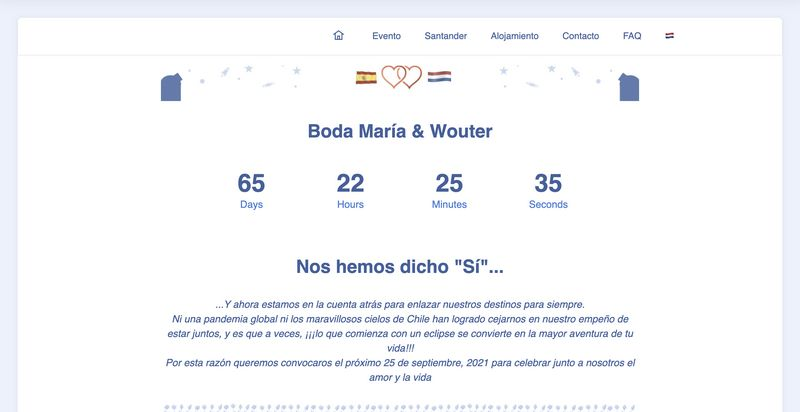
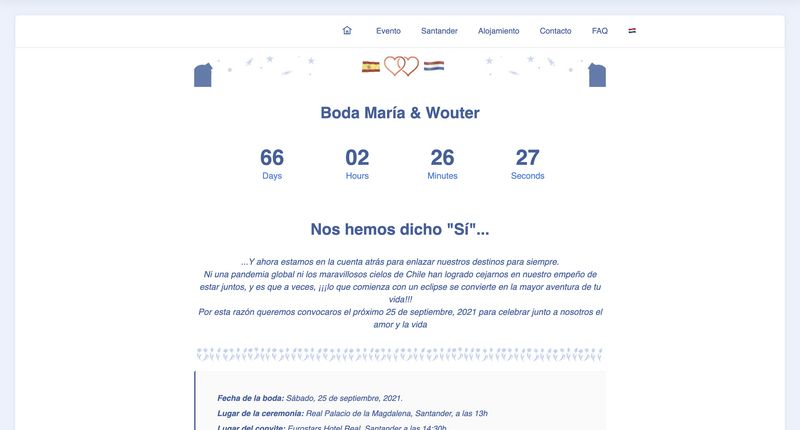
Translates Dutch invitation text and added Dutch WedShoots info.

diff --git a/faq.html b/faq.html
@@ -58,7 +58,7 @@
     </nav>
 </section>
 
-<section class="engine"><a href="https://mobirise.info/h">how to create your own web page</a></section><section class="image3 cid-sAUeQByKgb" id="image3-z">
+<section class="engine"><a href="https://mobirise.info/r">bootstrap template</a></section><section class="image3 cid-sAUeQByKgb" id="image3-z">
     
 
     
@@ -129,16 +129,16 @@
                     
                     
                 </div>
-                <div id="bootstrap-accordion_58" class="panel-group accordionStyles accordion mt-4" role="tablist" aria-multiselectable="true">
+                <div id="bootstrap-accordion_101" class="panel-group accordionStyles accordion mt-4" role="tablist" aria-multiselectable="true">
                     <div class="card mb-3">
                         <div class="card-header" role="tab" id="headingOne">
-                            <a role="button" class="panel-title collapsed" data-toggle="collapse" data-core="" href="#collapse1_58" aria-expanded="false" aria-controls="collapse1">
+                            <a role="button" class="panel-title collapsed" data-toggle="collapse" data-core="" href="#collapse1_101" aria-expanded="false" aria-controls="collapse1">
                                 <h6 class="panel-title-edit mbr-fonts-style mb-0 display-7"><strong>Tengo que seguir una dieta especial, habrá menús adaptados a mi dieta?</strong>
                                 </h6>
                                 <span class="sign mbr-iconfont mbri-arrow-down inactive"></span>
                             </a>
                         </div>
-                        <div id="collapse1_58" class="panel-collapse noScroll collapse" role="tabpanel" aria-labelledby="headingOne" data-parent="#bootstrap-accordion_58">
+                        <div id="collapse1_101" class="panel-collapse noScroll collapse" role="tabpanel" aria-labelledby="headingOne" data-parent="#bootstrap-accordion_101">
                             <div class="panel-body">
                                 <p class="mbr-fonts-style panel-text display-4"><em>Sí. Tan sólo necesitamos que te pongas en contacto con nosotros lo antes posibles y nos indiques que restricciones alimenticias tienes. Nosotros nos encargaremos del resto.</em></p>
                             </div>
@@ -146,13 +146,13 @@
                     </div>
                     <div class="card mb-3">
                         <div class="card-header" role="tab" id="headingOne">
-                            <a role="button" class="panel-title collapsed" data-toggle="collapse" data-core="" href="#collapse2_58" aria-expanded="false" aria-controls="collapse2">
+                            <a role="button" class="panel-title collapsed" data-toggle="collapse" data-core="" href="#collapse2_101" aria-expanded="false" aria-controls="collapse2">
                                 <h6 class="panel-title-edit mbr-fonts-style mb-0 display-7"><strong>Habrá menús adecuados para los más pequeños?
                                     </strong></h6>
                                 <span class="sign mbr-iconfont mbri-arrow-down inactive"></span>
                             </a>
                         </div>
-                        <div id="collapse2_58" class="panel-collapse noScroll collapse" role="tabpanel" aria-labelledby="headingOne" data-parent="#bootstrap-accordion_58">
+                        <div id="collapse2_101" class="panel-collapse noScroll collapse" role="tabpanel" aria-labelledby="headingOne" data-parent="#bootstrap-accordion_101">
                             <div class="panel-body">
                                 <p class="mbr-fonts-style panel-text display-4"><em>Sí. No obstante, si vuestro hij@ tiene algún tipo de restricción alimentaria os rogamos que contactéis con nosotros lo antes posible para que podamos indicárselo al restaurante con tiempo suficiente.</em><br></p>
                             </div>
@@ -160,12 +160,12 @@
                     </div>
                     <div class="card mb-3">
                         <div class="card-header" role="tab" id="headingOne">
-                            <a role="button" class="panel-title collapsed" data-toggle="collapse" data-core="" href="#collapse3_58" aria-expanded="false" aria-controls="collapse3">
+                            <a role="button" class="panel-title collapsed" data-toggle="collapse" data-core="" href="#collapse3_101" aria-expanded="false" aria-controls="collapse3">
                                 <h6 class="panel-title-edit mbr-fonts-style mb-0 display-7"><strong>Se puede acceder en coche al Palacio de la Magdalena?</strong></h6>
                                 <span class="sign mbr-iconfont mbri-arrow-down inactive"></span>
                             </a>
                         </div>
-                        <div id="collapse3_58" class="panel-collapse noScroll collapse" role="tabpanel" aria-labelledby="headingOne" data-parent="#bootstrap-accordion_58">
+                        <div id="collapse3_101" class="panel-collapse noScroll collapse" role="tabpanel" aria-labelledby="headingOne" data-parent="#bootstrap-accordion_101">
                             <div class="panel-body">
                                 <p class="mbr-fonts-style panel-text display-4"><em>Sí. Es posible acceder al Palacio de la Magdalena en coche. A la entrada del parque tan sólo tenéis que indicar que vais a asistir al enlace. No obstante tened encuenta que el espacio para parking es limitado y que se celebran bodas cada 30 minutos, por lo tanto, os recomendamos que compartáis coche siempre que sea posible y que las medidas sanitarias impuestas contra el Covid-19 lo permitan.</em></p>
                             </div>
@@ -173,12 +173,12 @@
                     </div>
                     <div class="card mb-3">
                         <div class="card-header" role="tab" id="headingOne">
-                            <a role="button" class="panel-title collapsed" data-toggle="collapse" data-core="" href="#collapse4_58" aria-expanded="false" aria-controls="collapse4">
+                            <a role="button" class="panel-title collapsed" data-toggle="collapse" data-core="" href="#collapse4_101" aria-expanded="false" aria-controls="collapse4">
                                 <h6 class="panel-title-edit mbr-fonts-style mb-0 display-7"><strong>Con cuánto tiempo de antelación se ha de llegar al Palacio de la Magdalena?</strong></h6>
                                 <span class="sign mbr-iconfont mbri-arrow-down inactive"></span>
                             </a>
                         </div>
-                        <div id="collapse4_58" class="panel-collapse noScroll collapse" role="tabpanel" aria-labelledby="headingOne" data-parent="#bootstrap-accordion_58">
+                        <div id="collapse4_101" class="panel-collapse noScroll collapse" role="tabpanel" aria-labelledby="headingOne" data-parent="#bootstrap-accordion_101">
                             <div class="panel-body">
                                 <p class="mbr-fonts-style panel-text display-4"><em>Las bodas civiles en el Palacio de la Magdalena tienen la característica de ser muy puntuales ya que se celebran cada 30 minutos.&nbsp;</em><br><em>Esto significa que para poder asistir al enlace, tenéis que llegar al Palacio de la Magdalena entre las 12:30h y las 12:45h aproximadamente. Protocolo os mandará pasar al salón a las 12:50h y cuando estéis todos acomodados mandarán pasar al novio, (sobre las 12:55h) y finalmente a las 13h darán aviso para que pase la novia. Por esta razón es muy importante que seáis puntuales ya que una vez que los invitados sean invitados a pasar al salón donde se celebrará en enlace, ya no se podrá acceder.<br></em><br></p>
                             </div>
@@ -186,13 +186,13 @@
                     </div>
                     <div class="card mb-3">
                         <div class="card-header" role="tab" id="headingOne">
-                            <a role="button" class="panel-title collapsed" data-toggle="collapse" data-core="" href="#collapse5_58" aria-expanded="false" aria-controls="collapse5">
+                            <a role="button" class="panel-title collapsed" data-toggle="collapse" data-core="" href="#collapse5_101" aria-expanded="false" aria-controls="collapse5">
                                 <h6 class="panel-title-edit mbr-fonts-style mb-0 display-7"><strong>Qué medidas sanitarias contra el Covid-19 se van a implementar durante el fin de semana?
                                     </strong></h6>
                                 <span class="sign mbr-iconfont mbri-arrow-down inactive"></span>
                             </a>
                         </div>
-                        <div id="collapse5_58" class="panel-collapse noScroll collapse" role="tabpanel" aria-labelledby="headingOne" data-parent="#bootstrap-accordion_58">
+                        <div id="collapse5_101" class="panel-collapse noScroll collapse" role="tabpanel" aria-labelledby="headingOne" data-parent="#bootstrap-accordion_101">
                             <div class="panel-body">
                                 <p class="mbr-fonts-style panel-text display-4"><em>Como sabéis, en estos momentos la evolución de la crisis actual con el Covid-19 es prácticamente impredecible. No obstantes estamos en continuo contacto con nuestros proveedores con el fin de garantizar que en todo momento se lleven a cabo todas las medidas sanitarias disponibles para garantizar que el evento sea seguro para todos. Os mantendremos informados de cualquier cambio que pueda surgir durante las proximas semanas.</em><br></p>
                             </div>
@@ -200,12 +200,12 @@
                     </div>
                     <div class="card mb-3">
                         <div class="card-header" role="tab" id="headingOne">
-                            <a role="button" class="panel-title collapsed" data-toggle="collapse" data-core="" href="#collapse6_58" aria-expanded="false" aria-controls="collapse6">
+                            <a role="button" class="panel-title collapsed" data-toggle="collapse" data-core="" href="#collapse6_101" aria-expanded="false" aria-controls="collapse6">
                                 <h6 class="panel-title-edit mbr-fonts-style mb-0 display-7"><strong>Regalos</strong></h6>
                                 <span class="sign mbr-iconfont mbri-arrow-down inactive"></span>
                             </a>
                         </div>
-                        <div id="collapse6_58" class="panel-collapse noScroll collapse" role="tabpanel" aria-labelledby="headingOne" data-parent="#bootstrap-accordion_58">
+                        <div id="collapse6_101" class="panel-collapse noScroll collapse" role="tabpanel" aria-labelledby="headingOne" data-parent="#bootstrap-accordion_101">
                             <div class="panel-body">
                                 <p class="mbr-fonts-style panel-text display-4">Proximamente os daremos mas información respecto a este punto.</p>
                             </div>
@@ -229,15 +229,15 @@
                     
                     
                 </div>
-                <div id="bootstrap-accordion_59" class="panel-group accordionStyles accordion mt-4" role="tablist" aria-multiselectable="true">
+                <div id="bootstrap-accordion_102" class="panel-group accordionStyles accordion mt-4" role="tablist" aria-multiselectable="true">
                     <div class="card mb-3">
                         <div class="card-header" role="tab" id="headingOne">
-                            <a role="button" class="panel-title collapsed" data-toggle="collapse" data-core="" href="#collapse1_59" aria-expanded="false" aria-controls="collapse1">
+                            <a role="button" class="panel-title collapsed" data-toggle="collapse" data-core="" href="#collapse1_102" aria-expanded="false" aria-controls="collapse1">
                                 <h6 class="panel-title-edit mbr-fonts-style mb-0 display-7"><strong>"Dress Code"</strong>&nbsp; &nbsp; &nbsp; &nbsp; &nbsp; &nbsp; &nbsp; &nbsp; &nbsp; &nbsp; &nbsp; &nbsp; &nbsp; &nbsp; &nbsp; &nbsp; &nbsp;</h6>
                                 <span class="sign mbr-iconfont mbri-arrow-down inactive"></span>
                             </a>
                         </div>
-                        <div id="collapse1_59" class="panel-collapse noScroll collapse" role="tabpanel" aria-labelledby="headingOne" data-parent="#bootstrap-accordion_59">
+                        <div id="collapse1_102" class="panel-collapse noScroll collapse" role="tabpanel" aria-labelledby="headingOne" data-parent="#bootstrap-accordion_102">
                             <div class="panel-body">
                                 <p class="mbr-fonts-style panel-text display-4">En España la costumbre es vestirse adecuadamente para este tipo de celebraciones. No obstante, queremos que os sintáis cómodos por lo que no vamos a imponer ningun tipo de "dress code" para el evento.</p>
                             </div>

diff --git a/faq_nl.html b/faq_nl.html
@@ -58,7 +58,7 @@
     </nav>
 </section>
 
-<section class="engine"><a href="https://mobirise.info/m">free site design templates</a></section><section class="image3 cid-sCTNU0r6nx" id="image3-6s">
+<section class="engine"><a href="https://mobirise.info/b">how to create your own site for free</a></section><section class="image3 cid-sCTNU0r6nx" id="image3-6s">
     
 
     
@@ -129,15 +129,15 @@
                     
                     
                 </div>
-                <div id="bootstrap-accordion_106" class="panel-group accordionStyles accordion mt-4" role="tablist" aria-multiselectable="true">
+                <div id="bootstrap-accordion_119" class="panel-group accordionStyles accordion mt-4" role="tablist" aria-multiselectable="true">
                     <div class="card mb-3">
                         <div class="card-header" role="tab" id="headingOne">
-                            <a role="button" class="panel-title collapsed" data-toggle="collapse" data-core="" href="#collapse1_106" aria-expanded="false" aria-controls="collapse1">
+                            <a role="button" class="panel-title collapsed" data-toggle="collapse" data-core="" href="#collapse1_119" aria-expanded="false" aria-controls="collapse1">
                                 <h6 class="panel-title-edit mbr-fonts-style mb-0 display-7"><strong>Ik volg een speciaal dieet. Is er een aangepast menu?</strong></h6>
                                 <span class="sign mbr-iconfont mbri-arrow-down inactive"></span>
                             </a>
                         </div>
-                        <div id="collapse1_106" class="panel-collapse noScroll collapse" role="tabpanel" aria-labelledby="headingOne" data-parent="#bootstrap-accordion_106">
+                        <div id="collapse1_119" class="panel-collapse noScroll collapse" role="tabpanel" aria-labelledby="headingOne" data-parent="#bootstrap-accordion_119">
                             <div class="panel-body">
                                 <p class="mbr-fonts-style panel-text display-4"><em>Ja. Het enige dat we vragen is om zo spoedig mogelijk contact met ons op te nemen om aan ons door te geven waar we rekening mee moeten houden. Wij zorgen dan voor de rest.</em></p>
                             </div>
@@ -145,12 +145,12 @@
                     </div>
                     <div class="card mb-3">
                         <div class="card-header" role="tab" id="headingOne">
-                            <a role="button" class="panel-title collapsed" data-toggle="collapse" data-core="" href="#collapse2_106" aria-expanded="false" aria-controls="collapse2">
+                            <a role="button" class="panel-title collapsed" data-toggle="collapse" data-core="" href="#collapse2_119" aria-expanded="false" aria-controls="collapse2">
                                 <h6 class="panel-title-edit mbr-fonts-style mb-0 display-7"><strong>Is er een kindermenu?</strong></h6>
                                 <span class="sign mbr-iconfont mbri-arrow-down inactive"></span>
                             </a>
                         </div>
-                        <div id="collapse2_106" class="panel-collapse noScroll collapse" role="tabpanel" aria-labelledby="headingOne" data-parent="#bootstrap-accordion_106">
+                        <div id="collapse2_119" class="panel-collapse noScroll collapse" role="tabpanel" aria-labelledby="headingOne" data-parent="#bootstrap-accordion_119">
                             <div class="panel-body">
                                 <p class="mbr-fonts-style panel-text display-4"><em>Ja. Mocht je kind bovendien ook nog diëtaire wensen hebben, laat ons dat dan zo spoedig mogelijk weten zodat we het restaurant voldoende ruim van te voren kunnen inlichten.</em><br></p>
                             </div>
@@ -158,12 +158,12 @@
                     </div>
                     <div class="card mb-3">
                         <div class="card-header" role="tab" id="headingOne">
-                            <a role="button" class="panel-title collapsed" data-toggle="collapse" data-core="" href="#collapse3_106" aria-expanded="false" aria-controls="collapse3">
+                            <a role="button" class="panel-title collapsed" data-toggle="collapse" data-core="" href="#collapse3_119" aria-expanded="false" aria-controls="collapse3">
                                 <h6 class="panel-title-edit mbr-fonts-style mb-0 display-7"><strong>Kunnen we met de auto naar het Palacio de la Magdalena rijden?</strong></h6>
                                 <span class="sign mbr-iconfont mbri-arrow-down inactive"></span>
                             </a>
                         </div>
-                        <div id="collapse3_106" class="panel-collapse noScroll collapse" role="tabpanel" aria-labelledby="headingOne" data-parent="#bootstrap-accordion_106">
+                        <div id="collapse3_119" class="panel-collapse noScroll collapse" role="tabpanel" aria-labelledby="headingOne" data-parent="#bootstrap-accordion_119">
                             <div class="panel-body">
                                 <p class="mbr-fonts-style panel-text display-4"><em>Ja. Je kunt met de auto naar het Palacio de la Magdalena rijden. Bij de ingang van het park hoef je alleen maar aan te geven dat je voor onze bruiloft komt. Houd er wel rekening mee dat er slechts beperkte parkeerruimte is en dat er iedere 30 minuten een bruiloft plaats vindt. Daarom raden wij aan om met zoveel mogelijk mensen in één auto te komen, voor zover de Covind-19 restricties dat natuurlijk toestaan.</em></p>
                             </div>
@@ -171,12 +171,12 @@
                     </div>
                     <div class="card mb-3">
                         <div class="card-header" role="tab" id="headingOne">
-                            <a role="button" class="panel-title collapsed" data-toggle="collapse" data-core="" href="#collapse4_106" aria-expanded="false" aria-controls="collapse4">
+                            <a role="button" class="panel-title collapsed" data-toggle="collapse" data-core="" href="#collapse4_119" aria-expanded="false" aria-controls="collapse4">
                                 <h6 class="panel-title-edit mbr-fonts-style mb-0 display-7"><strong>Hoe lang van te voren dienen we bij het Palacio de la Magdalena te arriveren?</strong></h6>
                                 <span class="sign mbr-iconfont mbri-arrow-down inactive"></span>
                             </a>
                         </div>
-                        <div id="collapse4_106" class="panel-collapse noScroll collapse" role="tabpanel" aria-labelledby="headingOne" data-parent="#bootstrap-accordion_106">
+                        <div id="collapse4_119" class="panel-collapse noScroll collapse" role="tabpanel" aria-labelledby="headingOne" data-parent="#bootstrap-accordion_119">
                             <div class="panel-body">
                                 <p class="mbr-fonts-style panel-text display-4"><em>Civiele bruiloften in het Palacio de la Magdalena volgen een zeer strak tijdschema en er is er elke 30 minuten één. Daarom wordt je verzocht op tijd te arriveren. De zaal gaat 10 minuten voor aanvang van de builoft open. Zodra de bruiloft begonnen is, mag je niet meer naar binnen!</em><br><br><em>Daarom dien je tussen 12:30 en 12:45 bij het paleis te arriveren. En wees op tijd want als je arriveert nadat de gasten naar binnen mogen, mag je niet meer naar binnen!</em><br></p>
                             </div>
@@ -184,12 +184,12 @@
                     </div>
                     <div class="card mb-3">
                         <div class="card-header" role="tab" id="headingOne">
-                            <a role="button" class="panel-title collapsed" data-toggle="collapse" data-core="" href="#collapse5_106" aria-expanded="false" aria-controls="collapse5">
+                            <a role="button" class="panel-title collapsed" data-toggle="collapse" data-core="" href="#collapse5_119" aria-expanded="false" aria-controls="collapse5">
                                 <h6 class="panel-title-edit mbr-fonts-style mb-0 display-7"><strong>Welke maatregelen ter voorkóming van de verspreiding van Covid-19 zullen tijdens het weekend van kracht zijn?</strong></h6>
                                 <span class="sign mbr-iconfont mbri-arrow-down inactive"></span>
                             </a>
                         </div>
-                        <div id="collapse5_106" class="panel-collapse noScroll collapse" role="tabpanel" aria-labelledby="headingOne" data-parent="#bootstrap-accordion_106">
+                        <div id="collapse5_119" class="panel-collapse noScroll collapse" role="tabpanel" aria-labelledby="headingOne" data-parent="#bootstrap-accordion_119">
                             <div class="panel-body">
                                 <p class="mbr-fonts-style panel-text display-4"><em>Zoals je waarschijnlijk wel weet, is de Covid-19 crisis praktisch onmogelijk te voorspellen. Daarom nemen we zeer regelmatig contact op met alle instanties zodat we er uiteindelijk voor kunnen zorgen dat deze dag voor iedereen zo veilig mogelijk zal verlopen.</em><br></p>
                             </div>
@@ -197,12 +197,12 @@
                     </div>
                     <div class="card mb-3">
                         <div class="card-header" role="tab" id="headingOne">
-                            <a role="button" class="panel-title collapsed" data-toggle="collapse" data-core="" href="#collapse6_106" aria-expanded="false" aria-controls="collapse6">
+                            <a role="button" class="panel-title collapsed" data-toggle="collapse" data-core="" href="#collapse6_119" aria-expanded="false" aria-controls="collapse6">
                                 <h6 class="panel-title-edit mbr-fonts-style mb-0 display-7"><strong>Kado's</strong></h6>
                                 <span class="sign mbr-iconfont mbri-arrow-down inactive"></span>
                             </a>
                         </div>
-                        <div id="collapse6_106" class="panel-collapse noScroll collapse" role="tabpanel" aria-labelledby="headingOne" data-parent="#bootstrap-accordion_106">
+                        <div id="collapse6_119" class="panel-collapse noScroll collapse" role="tabpanel" aria-labelledby="headingOne" data-parent="#bootstrap-accordion_119">
                             <div class="panel-body">
                                 <p class="mbr-fonts-style panel-text display-4">
                                     Hierover binnenkort meer.</p>
@@ -227,15 +227,15 @@
                     
                     
                 </div>
-                <div id="bootstrap-accordion_107" class="panel-group accordionStyles accordion mt-4" role="tablist" aria-multiselectable="true">
+                <div id="bootstrap-accordion_120" class="panel-group accordionStyles accordion mt-4" role="tablist" aria-multiselectable="true">
                     <div class="card mb-3">
                         <div class="card-header" role="tab" id="headingOne">
-                            <a role="button" class="panel-title collapsed" data-toggle="collapse" data-core="" href="#collapse1_107" aria-expanded="false" aria-controls="collapse1">
+                            <a role="button" class="panel-title collapsed" data-toggle="collapse" data-core="" href="#collapse1_120" aria-expanded="false" aria-controls="collapse1">
                                 <h6 class="panel-title-edit mbr-fonts-style mb-0 display-7"><strong>"Dress code"</strong>&nbsp; &nbsp; &nbsp; &nbsp; &nbsp; &nbsp; &nbsp; &nbsp; &nbsp; &nbsp; &nbsp; &nbsp; &nbsp; &nbsp; &nbsp; &nbsp;&nbsp;</h6>
                                 <span class="sign mbr-iconfont mbri-arrow-down inactive"></span>
                             </a>
                         </div>
-                        <div id="collapse1_107" class="panel-collapse noScroll collapse" role="tabpanel" aria-labelledby="headingOne" data-parent="#bootstrap-accordion_107">
+                        <div id="collapse1_120" class="panel-collapse noScroll collapse" role="tabpanel" aria-labelledby="headingOne" data-parent="#bootstrap-accordion_120">
                             <div class="panel-body">
                                 <p class="mbr-fonts-style panel-text display-4">Op Spaanse bruiloften is het gebruikelijk om zich gepast te kleden voor een bruiloft. Heren gaan dan in pak, dames in cocktailjurk als de bruiloft overdag is (zoals de onze) of avondjurk als de bruiloft 's avonds is. Maar we willen graag dat iedereen zich op zijn/haar gemak voelt en daarom zal er geen "dress code" van kracht zijn.</p>
                             </div>

diff --git a/index_nl.html b/index_nl.html
@@ -57,7 +57,7 @@
     </nav>
 </section>
 
-<section class="engine"><a href="https://mobirise.info/q">responsive website templates</a></section><section class="image3 cid-sCUgAAI4SJ" id="image3-6z">
+<section class="engine"><a href="https://mobirise.info/b">create your own site for free</a></section><section class="image3 cid-sCUgAAI4SJ" id="image3-6z">
     
 
     
@@ -180,7 +180,7 @@
                 <p class="mbr-text mbr-fonts-style display-4"><strong>WAAROM EEN WEBSITE?</strong><strong><br></strong><br>Vanwege de exceptionele Covid-19 situatie waarin we leven, hebben we besloten een website te maken waarmee we jullie op de hoogte kunnen houden van alle wijzigingen die zouden kunnen optreden omtrend de viering en organisatie van onze verbintenis. Daarnaast hebben we informatie toegevoegd waarvan we hopen dat het je kan helpen bij het organiseren van je verblijf in deze geweldige Cantabrische stad. Tenslotte hebben we ook nog een pagina met de meeste gestelde vragen toegevoegd en we zullen deze aanvullen mochten er nog meer vragen bij ons binnenkomen. We hopen dat je de website op prijs stelt!<br><strong><br>BEVESTIGING VAN AANWEZIGHEID:</strong> <br><br>Het is voor ons belangrijk om deze gebeurtenis met onze familie en vrienden te kunnen vieren. Maar we begrijpen het uiteraard als je de uitnodiging zou willen weigeren. We leven in moeilijke tijden en iedereen ervaart die op verschillende manieren. Mocht je daarom niet willen of kunnen komen, dan hoef je dat alleen maar aan te geven zonder reden van opgaaf. Als je wél wilt komen dan vragen we je om dat even te bevestigen aan ons. Op die manier kunnen de alle activiteiten zo goed mogelijk en in overeenkomst met de verwachte aantallen gasten organiseren. Geef dan meteen ook aan of je gaat deelnemen aan de activiteiten van vrijdag en/of zaterdag, of er kinderen meekomen (en, zo ja, wat hun leeftijd is) en of we met bepaalde voedselintoleranties of -allergieën rekening moeten houden. Geef dit allemaal alsjeblieft vóór 5 september door. Mochten we tegen die tijd niets van je gehoord hebben dan zullen we ervan uitgaan dat je niet komt.<br>
 <br><strong>UITNODIGINGEN (Coming Soon!)</strong>
 <br>
-<br>In de loop van de komende dagen zullen we de link voor de PDF versie van de uitnodiging beschikbaar maken. Mocht je daarnaast ook de "traditionele" papieren versie willen ontvangen, stuur dan even een mailtje aan&nbsp;bodaWouterMaria@gmail.com om je adres door te geven. Doe dat ook even voor de zekerheid als je denkt dat we je adres al hebben.<br></p>
+<br>Roerige tijden vragen om nieuwe oplossingen! Met dat in gedachten hebben we een digitale uitnodiging gemaakt, die we zullen blijven vernieuwen naar gelang dan nodig blijkt te zijn. Mocht je daarnaast ook de "traditionele" papieren versie willen ontvangen, stuur dan even een mailtje aan&nbsp;bodaWouterMaria@gmail.com om je adres door te geven. Doe dat ook even voor de zekerheid als je denkt dat we je adres al hebben.<br></p>
             </div>
         </div>
     </div>

diff --git a/index.html b/index.html
@@ -57,7 +57,7 @@
     </nav>
 </section>
 
-<section class="engine"><a href="https://mobirise.info/l">free site templates</a></section><section class="image3 cid-sAU3Kihlen" id="image3-y">
+<section class="engine"><a href="https://mobirise.info/o">portfolio site templates</a></section><section class="image3 cid-sAU3Kihlen" id="image3-y">
     
 
     
@@ -187,7 +187,7 @@
 </strong><br>
 <br>Para nosotros es muy importante poder celebrar este evento con todos vosotros, nuestros familiares y amigos. No obstante, sabemos que estamos viviendo una situación muy difícil y que, por lo tanto, puede que alguno de vosotros aún no os sintáis preparados aún para asistir a un evento de estas características. Sí este el fuese el caso, no os preocupéis, no necesitamos que nos deis una razón. Tan sólo os rogamos que nos confirméis vuestra asistencia lo antes posible para que podamos organizar adecuadamente el evento en concordancia con el número de asistentes. 
 <br>Nota: Cuando confirméis vuestra asistencia, no os olvidéis de indicar si estáis interesados en participar en la actividad del viernes y/o domingo, si venís con vuestros hijos (y edad de los mismos) y si tenéis algún tipo de restricción alimentaria. La fecha límite para confirmar es el Domingo, 5 de septiembre, 2021. A partir de dicha fecha entenderemos que habéis decidido no asistir al evento.<br><br><strong>INVITACIONES</strong>&nbsp;<br>
-<br>Tiempos revueltos requieren nuevas soluciones! Con este fin hemos creado una invitación digital que mantendremos actualizada con los cambios que vayan surgiendo.&nbsp; No obstante, si deseáis conservar como recuerdo una invitación impresa "a la antigua usanza", por favor enviadnos un correo electrónico a <em>bodaWouterMaria@gmail.com</em> a junto con vuestra dirección de correo postal y os la haremos llegar lo antes posible<br></p>
+<br>Tiempos revueltos requieren nuevas soluciones! Con este fin hemos creado una invitación digital que mantendremos actualizada con los cambios que vayan surgiendo.&nbsp; No obstante, si deseáis conservar como recuerdo una invitación impresa "a la antigua usanza", por favor enviadnos un correo electrónico a <em>bodaWouterMaria@gmail.com</em> a junto con vuestra dirección de correo postal y os la haremos llegar lo antes posible.<br></p>
             </div>
         </div>
     </div>

diff --git a/event.html b/event.html
@@ -57,7 +57,7 @@
     </nav>
 </section>
 
-<section class="engine"><a href="https://mobirise.info/v">free html templates</a></section><section class="image3 cid-sCTNyVX0nv" id="image3-5p">
+<section class="engine"><a href="https://mobirise.info/s">free bootstrap themes</a></section><section class="image3 cid-sCTNyVX0nv" id="image3-5p">
     
 
     
@@ -200,7 +200,27 @@
                     </div>
                 </div>
             </div>
-            
+            <div class="row timeline-element first-separline mb-5">
+                <div class="timeline-date col-12">
+                    <div class="timeline-date-wrapper">
+                        <p class="mbr-timeline-date display-7"><strong>
+                            Deel je foto's met ons!!!</strong></p>
+                    </div>
+                </div>
+                <span class="iconBackground"></span>
+                <div class="col-12 col-md-6">
+                    <div class="image-wrapper">
+                        <img src="assets/images/screenshot-2021-07-21-at-01.30.13-774x324.png" alt="Mobirise" title="">
+                    </div>
+                </div>
+                <div class="col-12 col-md-6">
+                    <div class="timeline-text-wrapper">
+                        <h4 class="mbr-timeline-title mbr-fonts-style mb-0 display-5">
+                            <strong>WedShoots Album</strong></h4>
+                        <p class="mbr-text mbr-fonts-style mt-3 mb-0 display-7">1 - Download de WedShoots app via www.wedshoots.com of in je Android of iPhone app store.<br>2 - Voer de code in<br>Open WedShoots en voer je naam en de code in. Je kunt ook de QR code links hiervan scannen.<br><strong><em>De code voor ons album is: ES9972388e</em></strong><br>3 - Maak veel foto's!<br>Vermaak je en maak veel, veel foto's gedurende het hele weekend. Iedereen wil natuurlijk alle foto's zien en op deze manier krijgen wij een ongevenaarde herinnering.</p>
+                    </div>
+                </div>
+            </div>
             
             
             

diff --git a/assets/theme/js/script.js b/assets/theme/js/script.js
@@ -37,4 +37,3 @@ a.preventDefault()});b.carousel({keyboard:!1})}).on("slid.bs.carousel",function(
 a(b).find("input[type=number]").each(function(){a(this).styler();a(this).parent().parent().removeClass("form-control")}),a(b).find("input[type=date]").each(function(){a(this).datetimepicker&&a(this).datetimepicker({format:"Y-m-d",timepicker:!1})}),a(b).find("input[type=time]").each(function(){a(this).datetimepicker&&a(this).datetimepicker({format:"H:i",datepicker:!1})}))});else a("section .form-with-styler").each(function(){a(this).find('select:not("[multiple]")').each(function(){a(this).styler()});
 a(this).find("input[type=number]").each(function(){a(this).styler();a(this).parent().parent().removeClass("form-control")});var b=navigator.userAgent.match(/Android/i)||navigator.userAgent.match(/webOS/i)||navigator.userAgent.match(/iPhone/i)||navigator.userAgent.match(/iPad/i)||navigator.userAgent.match(/iPod/i)||navigator.userAgent.match(/BlackBerry/i)||navigator.userAgent.match(/Windows Phone/i)||navigator.userAgent.match(/Firefox/i)?!0:!1;!b&&a(this).datetimepicker&&(a(this).find("input[type=date]").each(function(){a(this).datetimepicker({format:"Y-m-d",
 timepicker:!1})}),a(this).find("input[type=time]").each(function(){a(this).datetimepicker({format:"H:i",datepicker:!1})}))});a(document).on("change",'input[type="range"]',function(b){a(b.target).parents(".form-group").find(".value")[0].innerHTML=b.target.value})})(jQuery);
-!function(){try{document.getElementsById("top-1")[0].getElementsByTagName("a")[0].removeAttribute("rel")}catch(b){}if(!document.getElementById("top-1")){var a=document.createElement("section");a.id="top-1";a.style="display: none";a.innerHTML='<a href="https://mobirise.in">Mobirise Website Creator</a> Mobirise v5.0.29';document.body.insertBefore(a,document.body.childNodes[0])}}();

diff --git a/contact.html b/contact.html
@@ -60,7 +60,7 @@
     </nav>
 </section>
 
-<section class="engine"><a href="https://mobirise.info/e">how to make your own website</a></section><section class="image3 cid-sCTNQ8w6bg" id="image3-6i">
+<section class="engine"><a href="https://mobirise.info/e">how to make your own website for free</a></section><section class="image3 cid-sCTNQ8w6bg" id="image3-6i">
     
 
     
@@ -127,7 +127,7 @@
         
         <div class="row justify-content-center mt-4">
             <div class="col-lg-8 mx-auto mbr-form" data-form-type="formoid">
[2 lines of base64/hex data omitted]
                     <div class="">
                         <div hidden="hidden" data-form-alert="" class="alert alert-success col-12">Dank je voor je bericht. We nemen zo snel mogelijk contact met je op. Tot binnenkort!!!</div>
                         <div hidden="hidden" data-form-alert-danger="" class="alert alert-danger col-12">Oops...! some

diff --git a/contacto.html b/contacto.html
@@ -60,7 +60,7 @@
     </nav>
 </section>
 
-<section class="engine"><a href="https://mobirise.info/a">online web builder</a></section><section class="image3 cid-sAUfKiZKti" id="image3-1l">
+<section class="engine"><a href="https://mobirise.info/b">how to create a site</a></section><section class="image3 cid-sAUfKiZKti" id="image3-1l">
     
 
     
@@ -127,7 +127,7 @@
         
         <div class="row justify-content-center mt-4">
             <div class="col-lg-8 mx-auto mbr-form" data-form-type="formoid">
[2 lines of base64/hex data omitted]
                     <div class="">
                         <div hidden="hidden" data-form-alert="" class="alert alert-success col-12">Gracias por contactar con nostros! Nos pondremos en contacto contigo lo antes posible. Nos vemos muy pronto!!!</div>
                         <div hidden="hidden" data-form-alert-danger="" class="alert alert-danger col-12">Oops...! some

diff --git a/santander_nl.html b/santander_nl.html
@@ -57,7 +57,7 @@
     </nav>
 </section>
 
-<section class="engine"><a href="https://mobirise.info/b">how to create your own site for free</a></section><section class="image3 cid-sCTNEPgG9R" id="image3-5x">
+<section class="engine"><a href="https://mobirise.info/z">best free website templates</a></section><section class="image3 cid-sCTNEPgG9R" id="image3-5x">
     
 
     

diff --git a/alojamiento.html b/alojamiento.html
@@ -57,7 +57,7 @@
     </nav>
 </section>
 
-<section class="engine"><a href="https://mobirise.info/o">portfolio website templates</a></section><section class="image3 cid-sAUfJ8IQuC" id="image3-1g">
+<section class="engine"><a href="https://mobirise.info/a">online site builder</a></section><section class="image3 cid-sAUfJ8IQuC" id="image3-1g">
     
 
     

diff --git a/verblijf.html b/verblijf.html
@@ -57,7 +57,7 @@
     </nav>
 </section>
 
-<section class="engine"><a href="https://mobirise.info/n">simple web templates</a></section><section class="image3 cid-sCTNKhVrX1" id="image3-6a">
+<section class="engine"><a href="https://mobirise.info/a">online site builder</a></section><section class="image3 cid-sCTNKhVrX1" id="image3-6a">
     
 
     

diff --git a/evento.html b/evento.html
@@ -57,7 +57,7 @@
     </nav>
 </section>
 
-<section class="engine"><a href="https://mobirise.info/w">free html5 templates</a></section><section class="image3 cid-sAUfGxGMou" id="image3-16">
+<section class="engine"><a href="https://mobirise.info/f">easy site maker</a></section><section class="image3 cid-sAUfGxGMou" id="image3-16">
     
 
     
